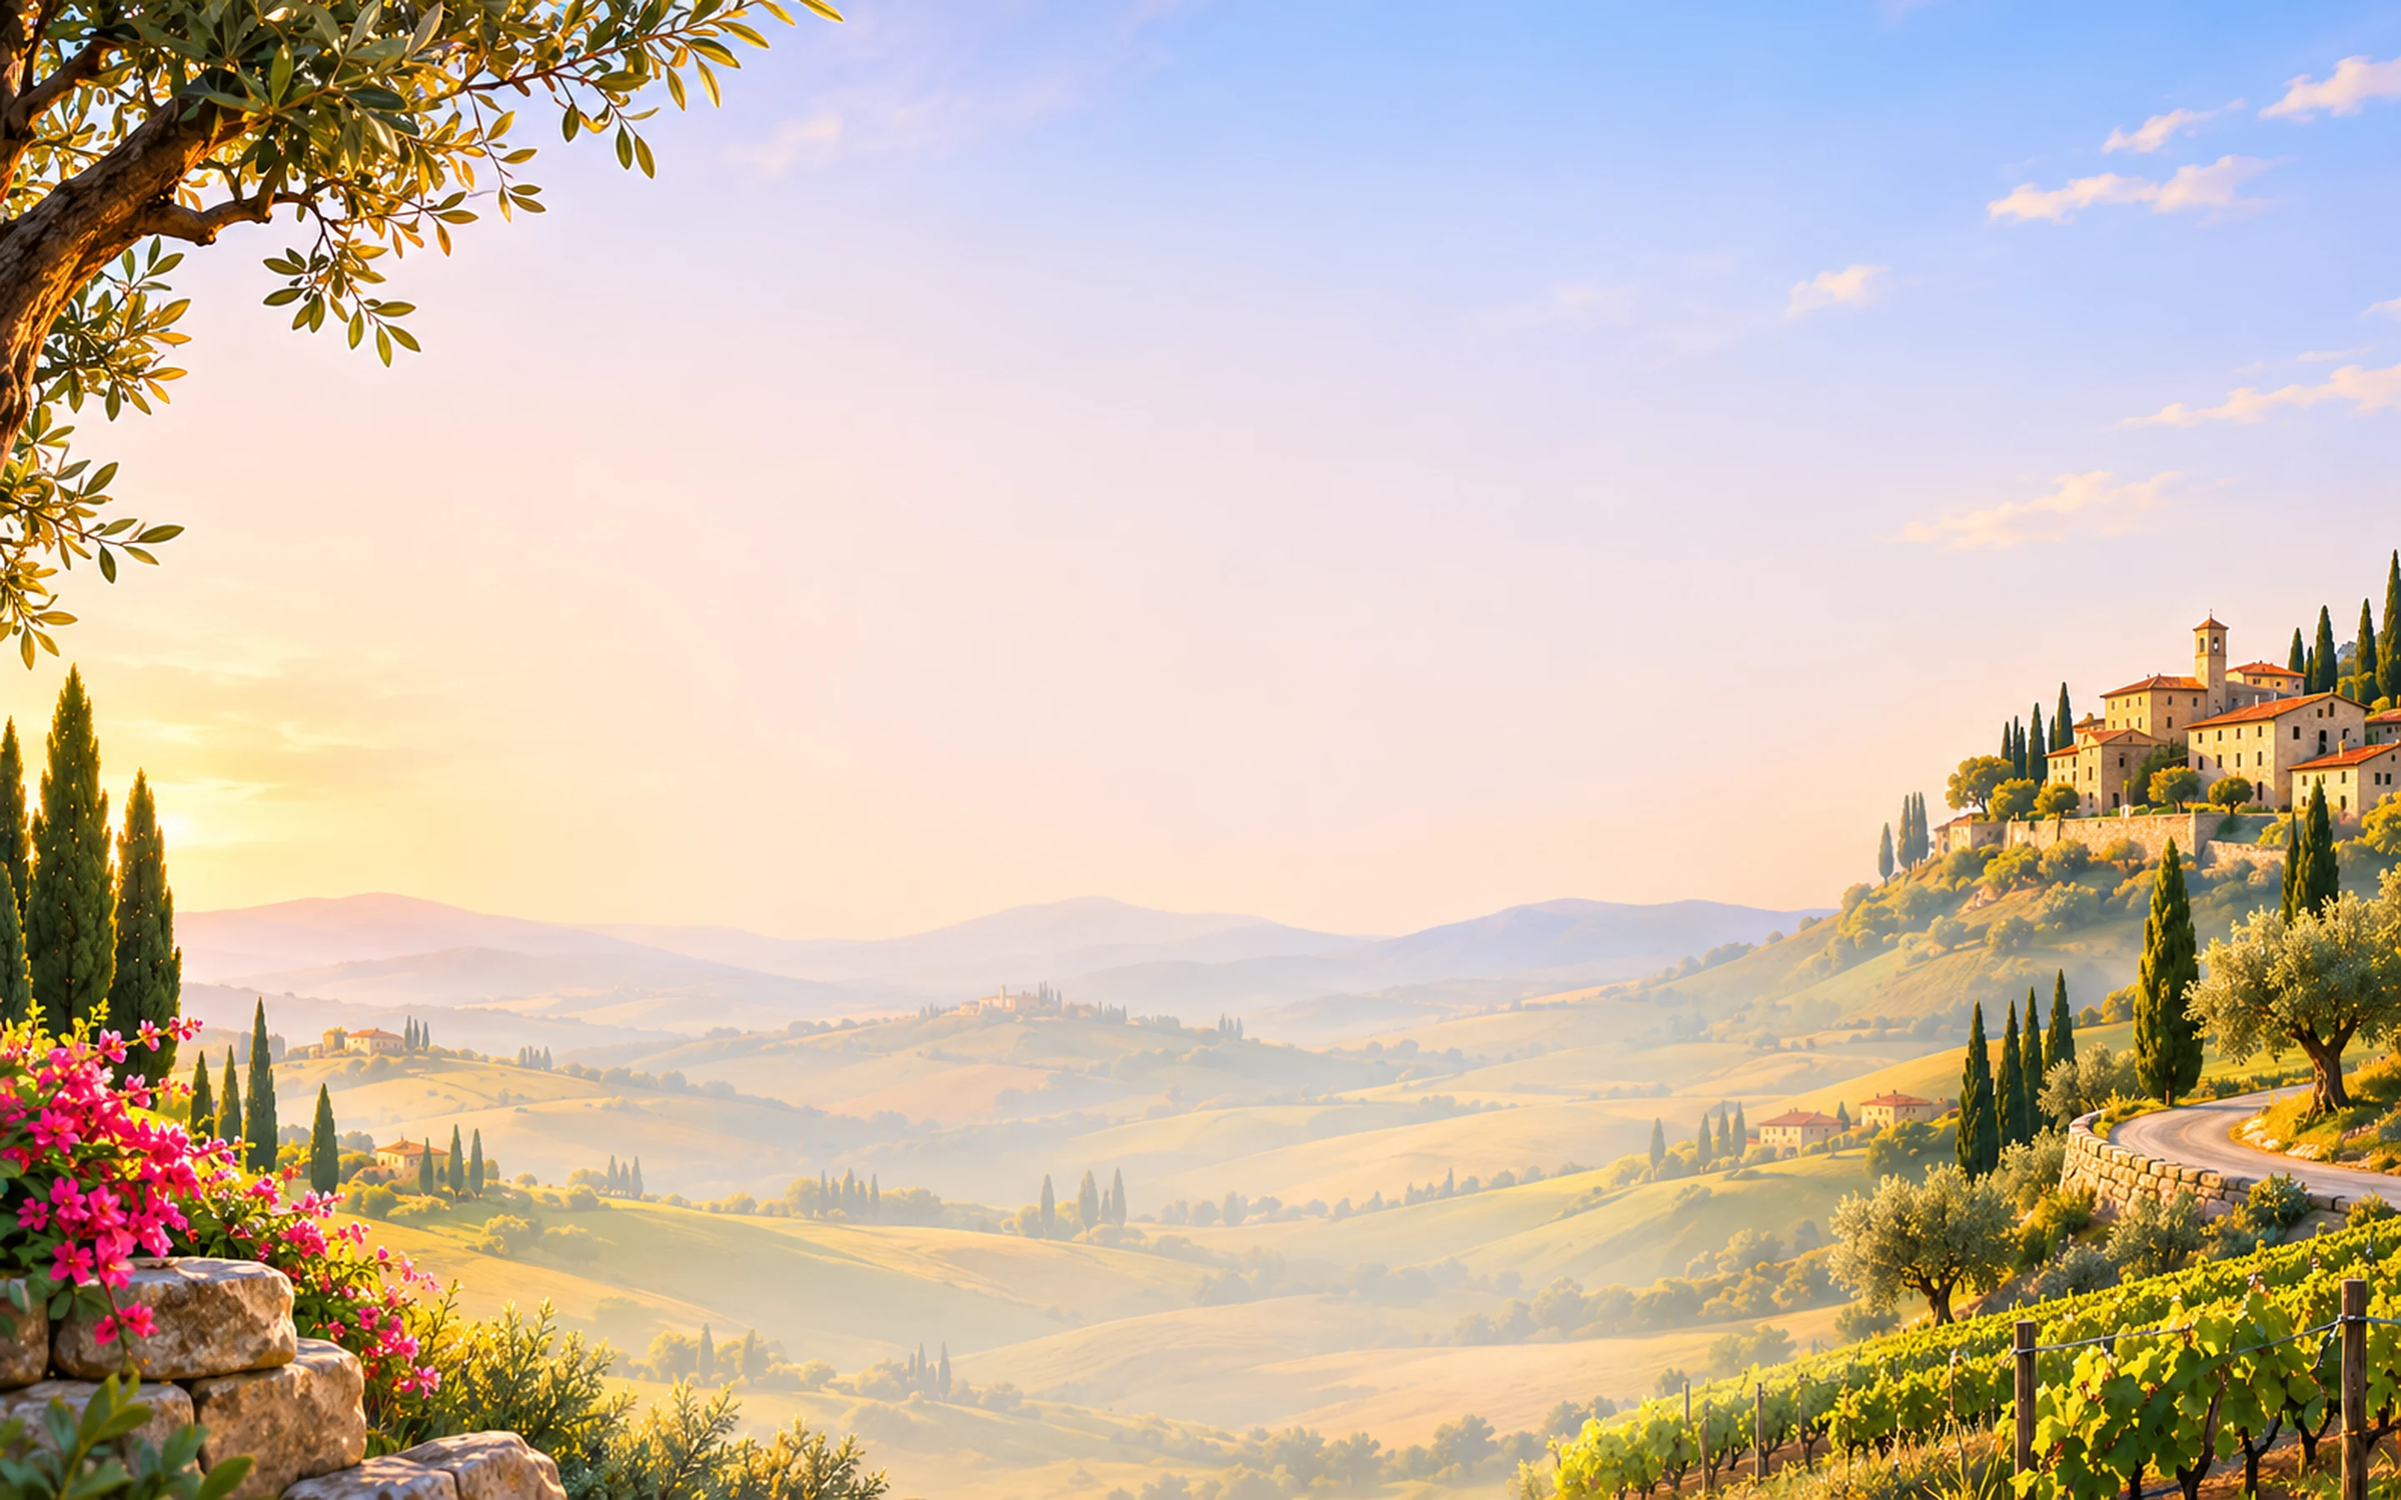
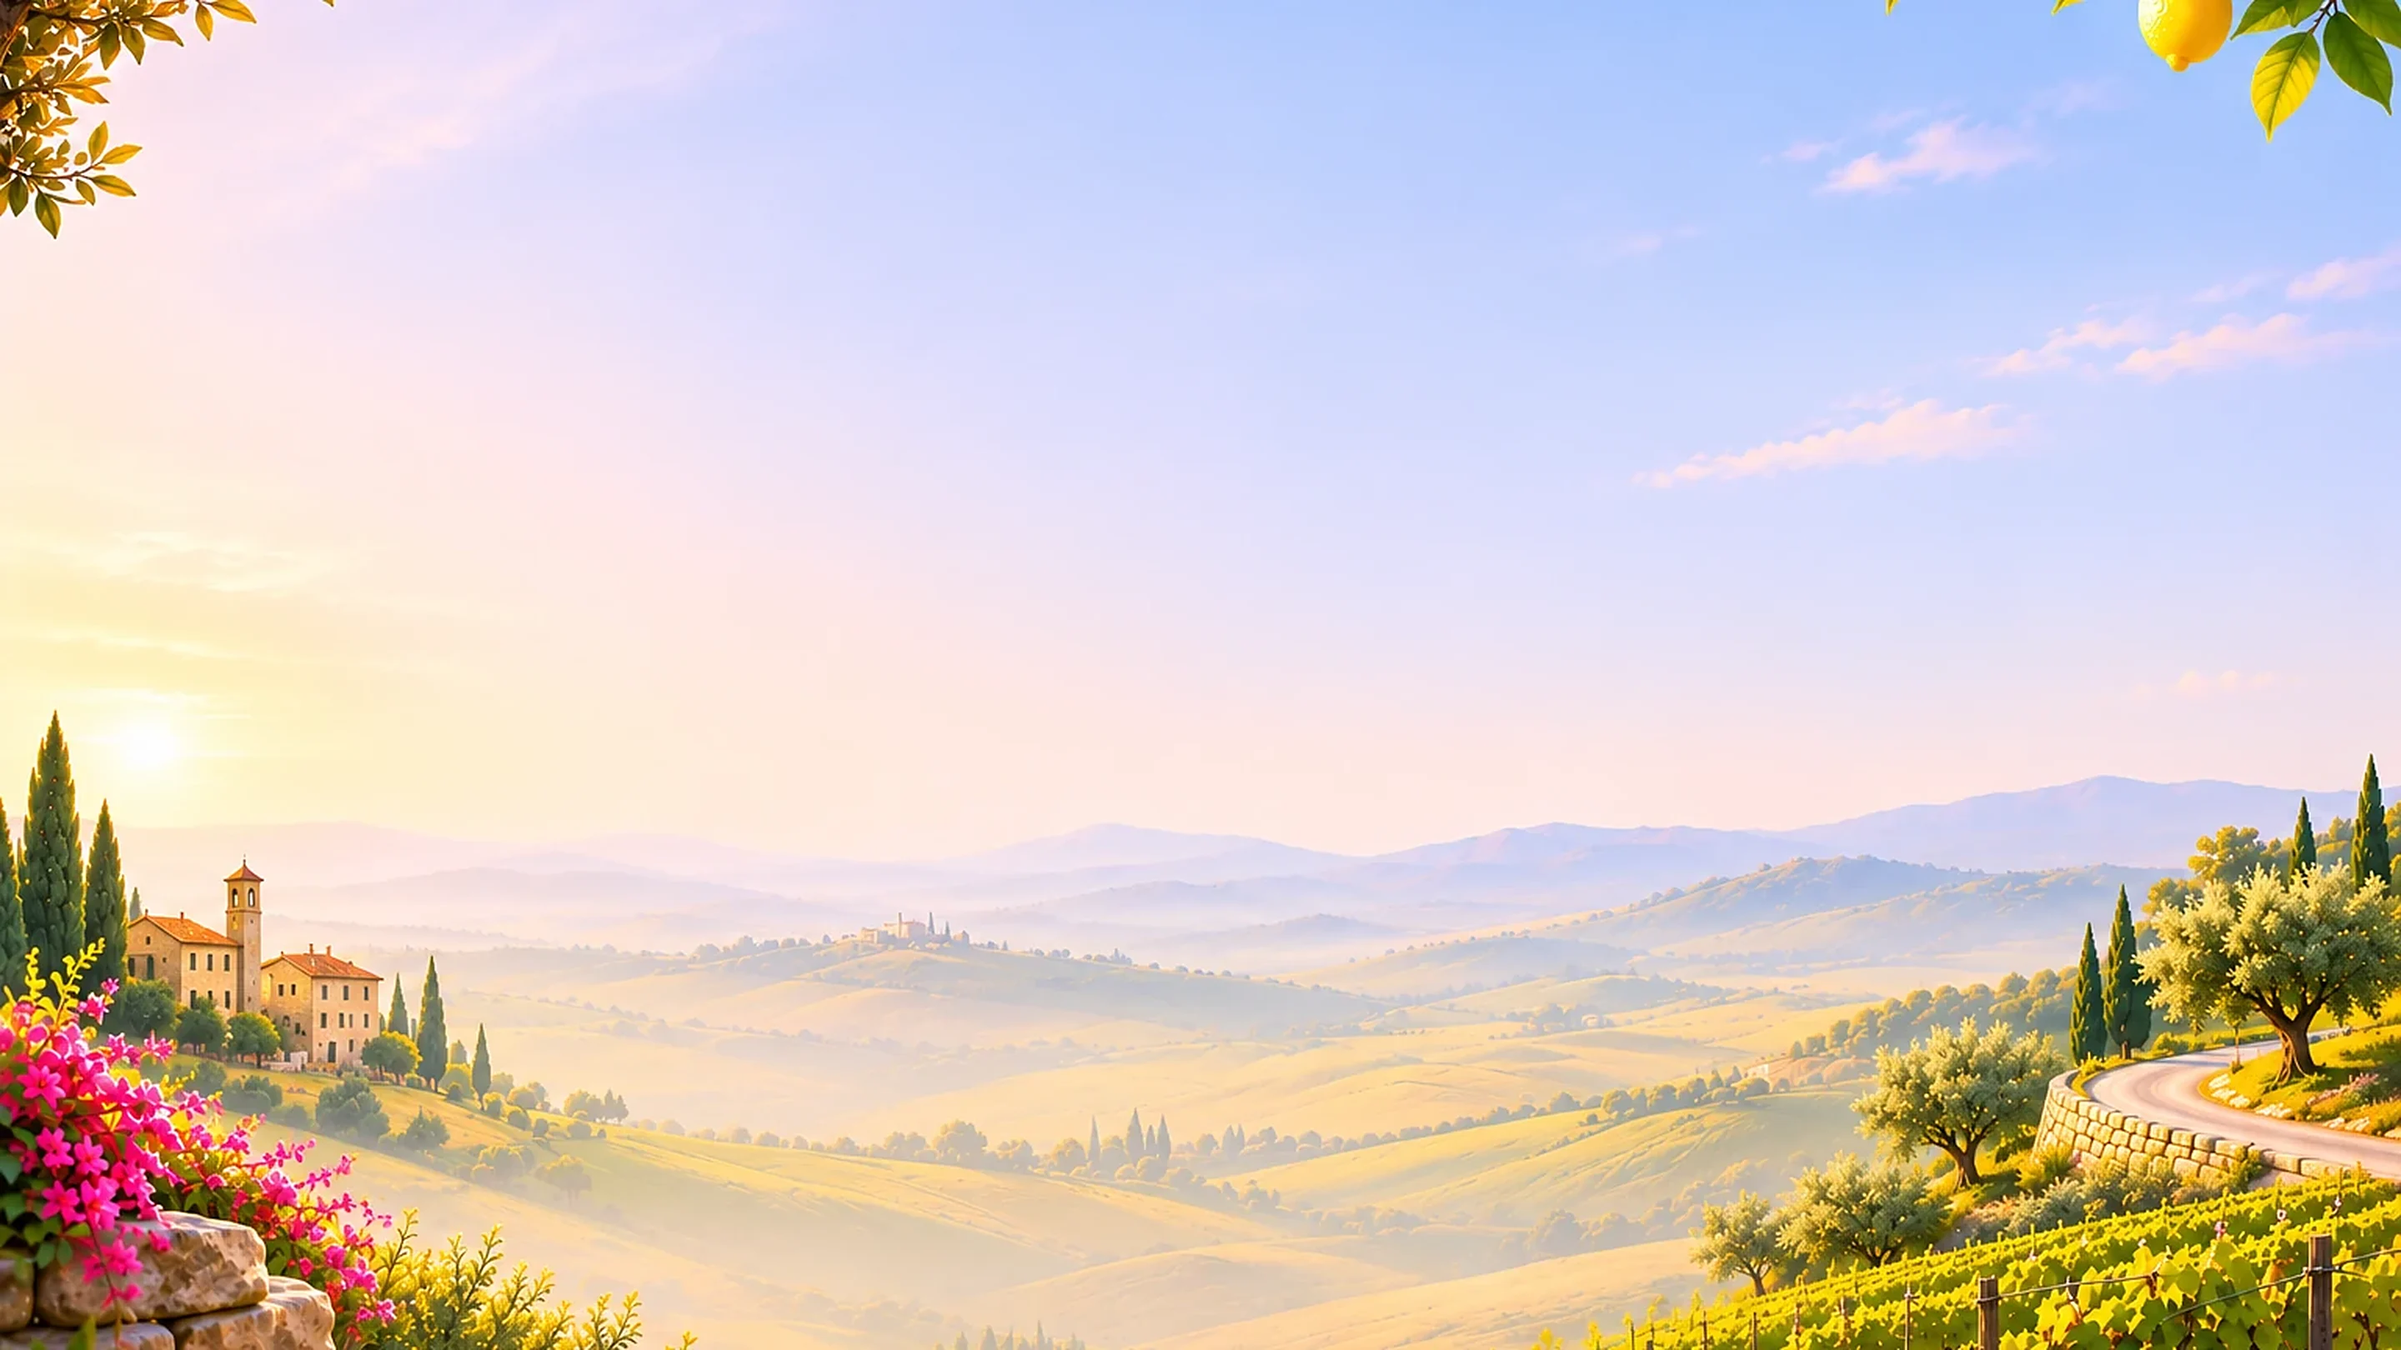
BL-032: nieuwe achtergronden BG-01/02/03 van main (64fc294)
git checkout origin/main -- assets/v3/render/exports/ + rename BG-03-meer ->
BG-02-meer en BG-02-kust -> BG-03-kust (inhoud gecontroleerd). Manifest: sha256,
bytes en maat (2880x1620, was 2880x1800). BG-04 t/m 07 staan erbij, niet
geïntegreerd. Oude BG-01-uitsnede (150%) vervalt. QA-script: env-schakelaars
voor brandpunt/gloed-studie (QA_SIZES, QA_BGS, QA_NOGLOW, QA_BGPOS).

Claude-Session: https://claude.ai/code/session_016PmNfc6UjbDboNzqxh3iej

diff --git a/scripts/v3/menu1.css b/scripts/v3/menu1.css
@@ -393,3 +393,6 @@
  body.v3Les:not([data-focus-shell=true]) aside.panel{max-width:560px;justify-self:end;width:100%}
  body.v3Les:not([data-focus-shell=true]) .v3LesBar{max-width:560px;left:auto!important}
 }
+
+/* === BL-032: new backgrounds (19-11). The old BG-01 crop (ui.css: 150%, 100% 35%) was for the previous Tuscany image. === */
+body.v3Home[data-v3-background=bg01]{background-size:cover;background-position:center}
